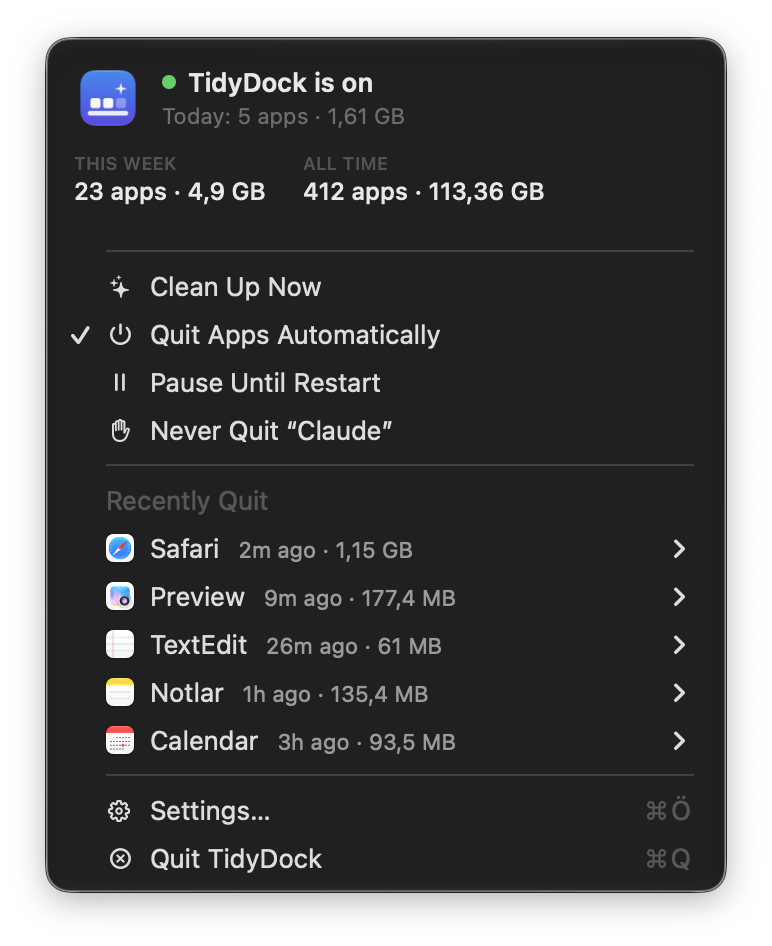
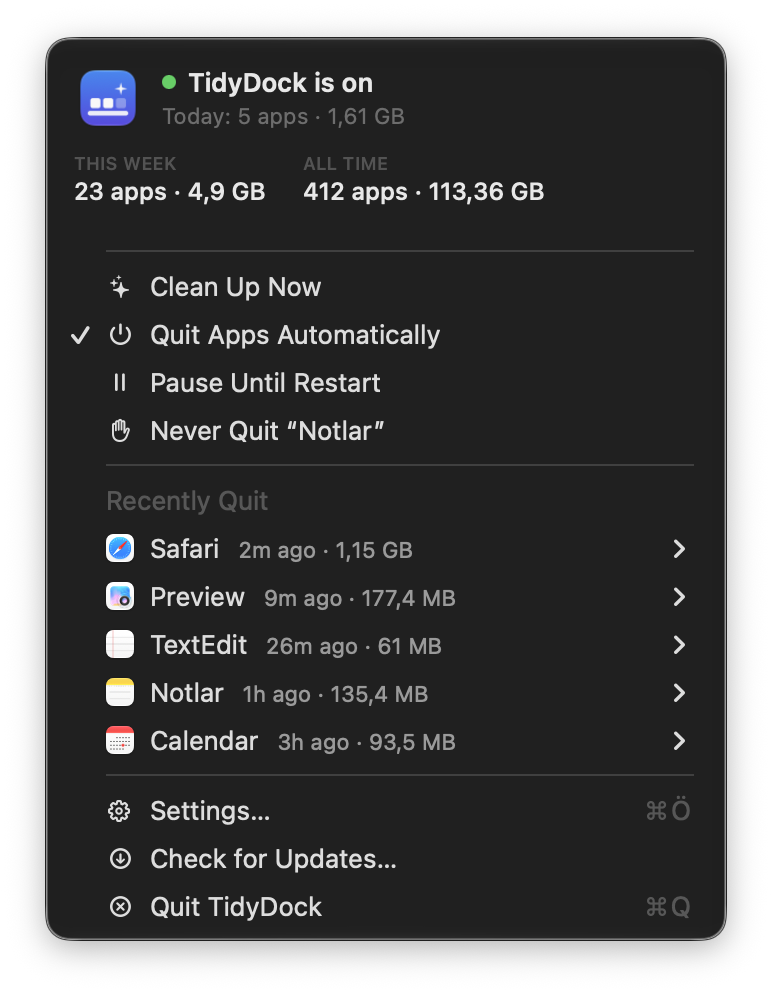
Use a sample front app in menu screenshots

Changed region(s): [[0.0622, 0.2452, 0.9326, 0.9503], [0.0622, 0.0307, 0.9326, 0.2146], [0.5596, 0.1839, 0.715, 0.2146]]

diff --git a/Sources/TidyDock/StatusMenuController.swift b/Sources/TidyDock/StatusMenuController.swift
@@ -122,11 +122,8 @@ final class StatusMenuController: NSObject, NSMenuDelegate {
         pause.isEnabled = settings.isEnabled
         menu.addItem(pause)
 
-        if let front = NSWorkspace.shared.frontmostApplication,
-           front.activationPolicy == .regular,
-           let id = front.bundleIdentifier,
-           id != Bundle.main.bundleIdentifier {
-            let never = item(L("Never Quit “%@”", front.localizedName ?? id), #selector(toggleNeverQuit(_:)), symbol: "hand.raised")
+        if let (id, name) = frontApp {
+            let never = item(L("Never Quit “%@”", name), #selector(toggleNeverQuit(_:)), symbol: "hand.raised")
             never.representedObject = id
             never.state = settings.isNeverQuit(bundleID: id) ? .on : .off
             menu.addItem(never)
@@ -145,6 +142,20 @@ final class StatusMenuController: NSObject, NSMenuDelegate {
         let quit = item(L("Quit TidyDock"), #selector(quitApp), symbol: "xmark.circle")
         quit.keyEquivalent = "q"
         menu.addItem(quit)
+    }
+
+    /// The Dock app in front, which "Never Quit …" applies to. Screenshots use
+    /// a fixed sample so whatever happens to be open never ends up in them.
+    private var frontApp: (id: String, name: String)? {
+        if ScreenshotMode.scene != nil {
+            return ("com.apple.Notes", AppInfo(bundleID: "com.apple.Notes").name)
+        }
+        guard let front = NSWorkspace.shared.frontmostApplication,
+              front.activationPolicy == .regular,
+              let id = front.bundleIdentifier,
+              id != Bundle.main.bundleIdentifier
+        else { return nil }
+        return (id, front.localizedName ?? id)
     }
 
     private func addRecentlyQuit(to menu: NSMenu) {
